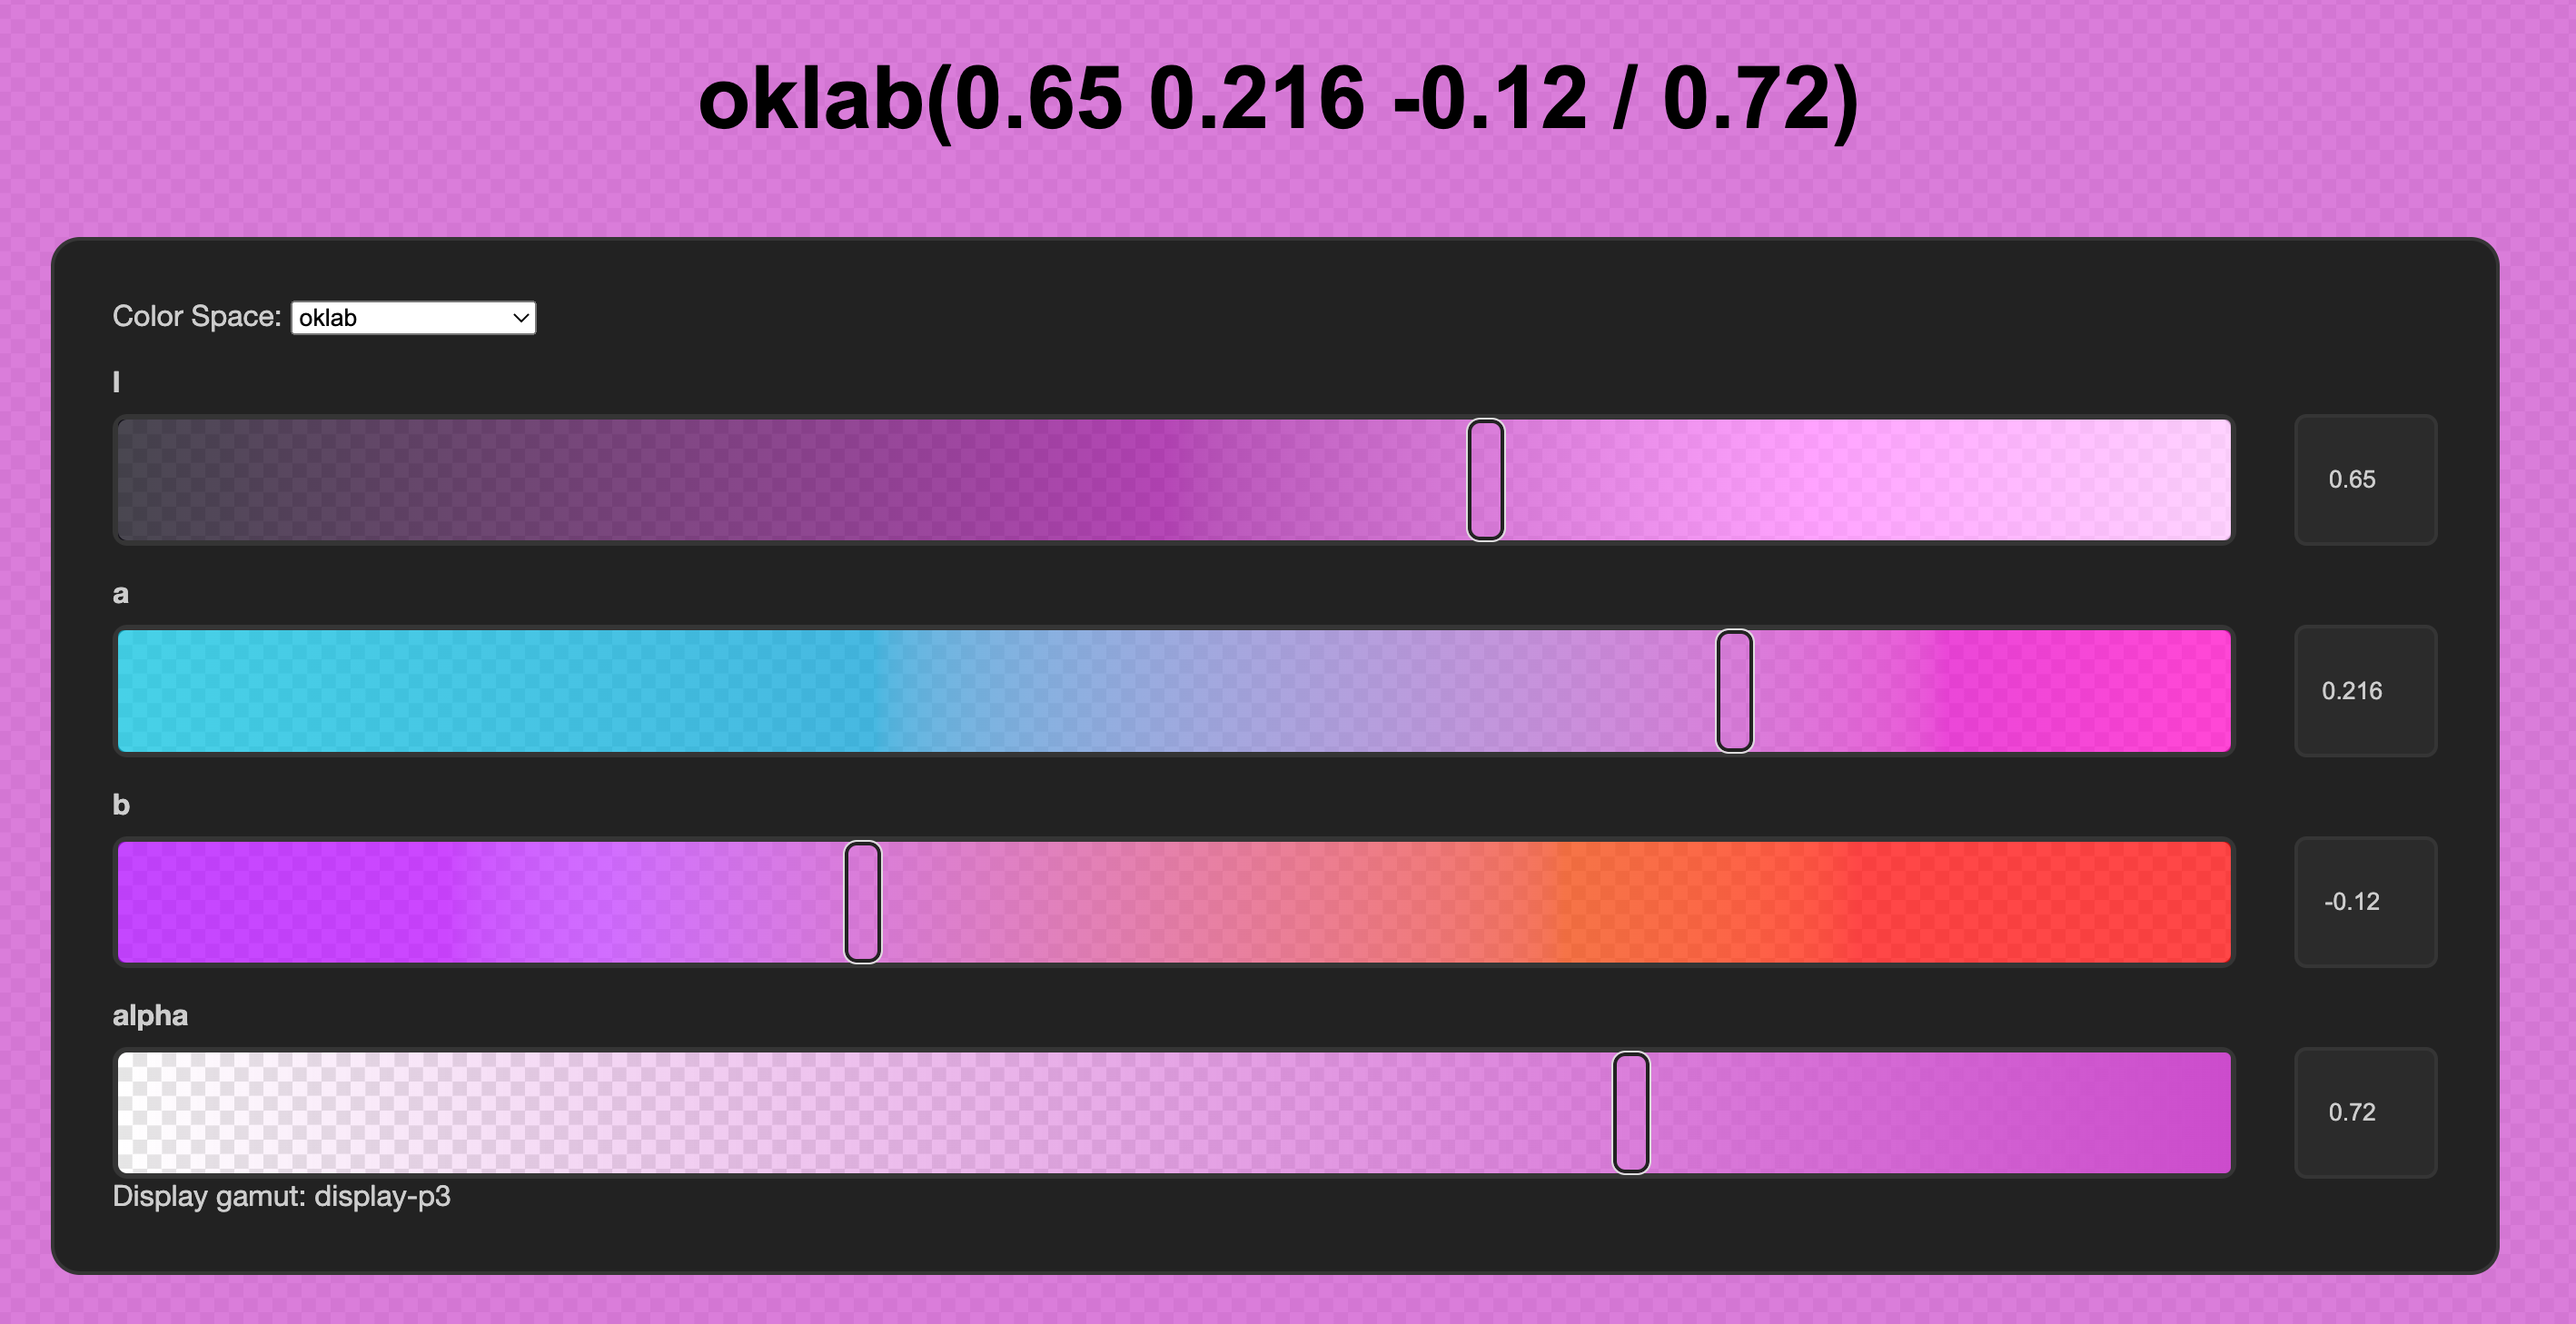
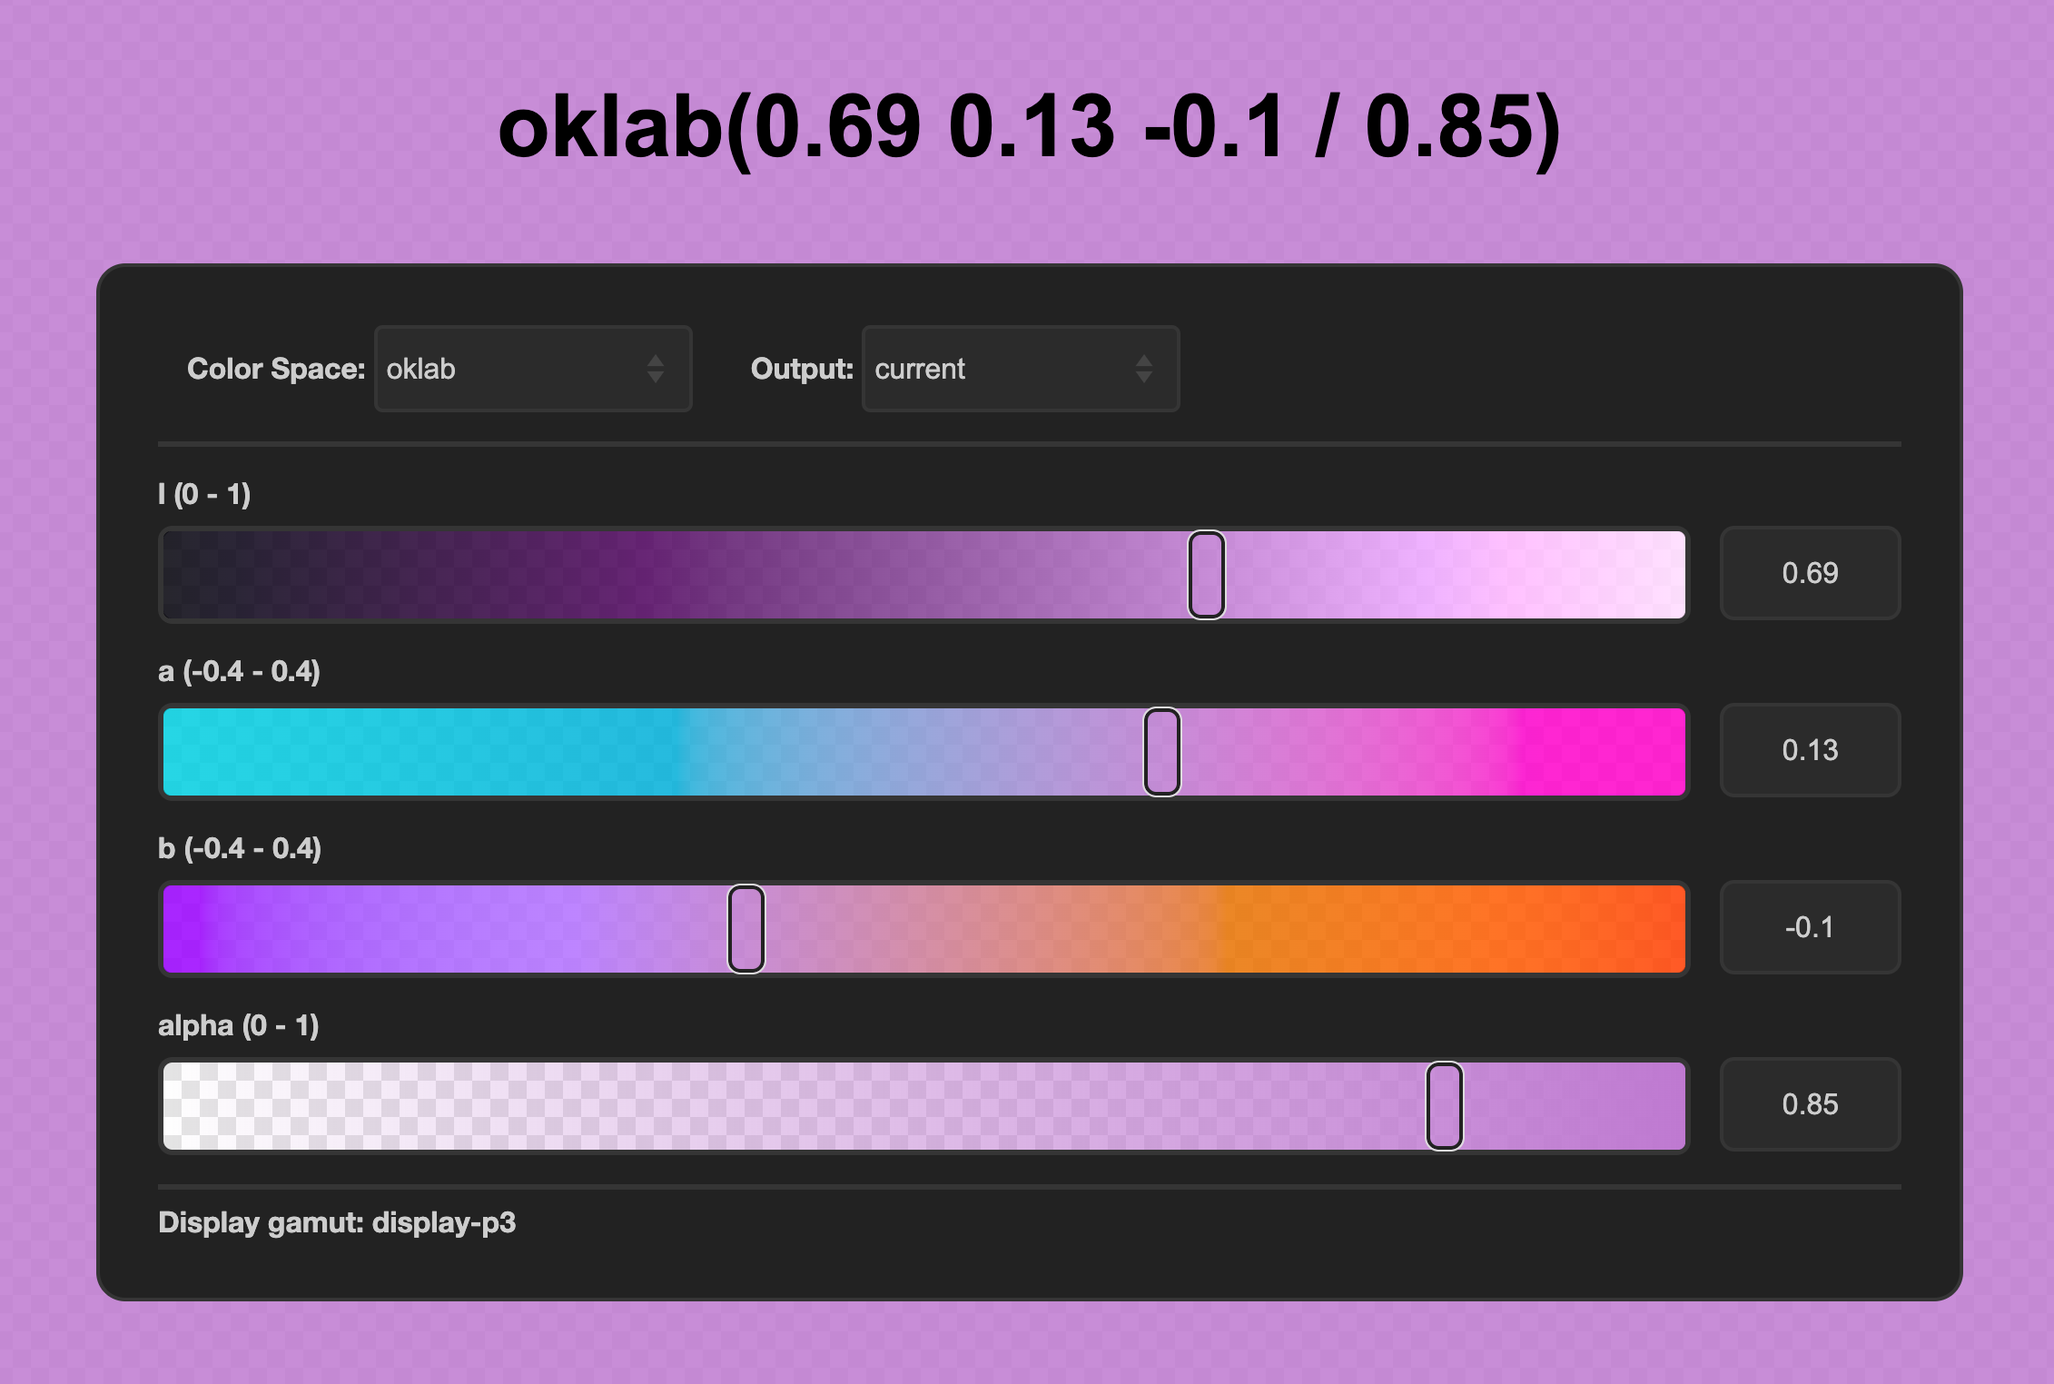
Colorpicker demo can now specify output color space to translate to

diff --git a/docs/src/markdown/demos/colorpicker.html b/docs/src/markdown/demos/colorpicker.html
@@ -80,6 +80,7 @@
         }
 
         #main {
+          font-weight: 800;
           display: flex;
           background-color: #222;
           border: 2px solid var(--border);
@@ -133,7 +134,7 @@
           background-color: var(--input);
           border-radius: 0.3em;
           border: 2px solid var(--border);
-          font-size: 13px;
+          font-size: 1em;
           text-overflow: ellipsis;
         }
 
@@ -184,7 +185,7 @@
           border: 2px solid var(--border);
           background-color: var(--input);
           border-radius: 0.5em;
-          font-size: 13px;
+          font-size: 1em;
         }
 
         /* Chrome, Safari, Edge, Opera */
@@ -200,8 +201,18 @@
           -moz-appearance: textfield;
         }
 
+        #color-space {
+          display: flex;
+          flex-flow: wrap;
+          border-bottom: 3px solid var(--border);
+        }
+
+        #color-space span {
+          margin: 0 1em 1em 1em;
+          white-space: nowrap;
+        }
+
         .slider-label {
-          font-weight: 800;
           display: inline-block;
           margin: 1em 0 0.5em 0;
         }
@@ -299,16 +310,24 @@
       <header>
         <h1>ColorAide Color Picker</h1>
       </header>
-      <div id="color-input">
-        <label class='hidden'>Color Value</label><input id="color-label" type="text" value="" spellcheck="false">
+      <div id="color-result">
+        <label class='hidden'>Color Value</label>
+        <input id="color-label" type="text" value="" spellcheck="false">
       </div>
       <div id="main">
         <div id="dialog">
           <div id="color-space">
-            <label class="hidden" for="spaces">Color Space:</label>
+            <span>
+            <label for="spaces">Color Space:</label>
             <select name="spaces" id="spaces">
             </select>
-            <span class='hidden' id='warn1'>(Out of color space gamut!)</span>
+            </span>
+            <span>
+            <label for="output">Output:</label>
+            <select name="output" id="output">
+            <option value='current' selected>current</option>
+            </select>
+            </span>
           </div>
           <div id="sliders">
             <div class="slider-wrapper">
@@ -373,7 +392,7 @@
             </div>
           </div>
           <div id="environment-info">
-          Display gamut: <span id='gamut'></span> <span class='hidden' id='warn2'>(Out of display gamut!)</span>
+          Display gamut: <span id='gamut'></span><br><span class='hidden' id='warn1'></span>
           </div>
         </div>
       </div>
@@ -447,6 +466,8 @@
         const numericalInput = kwargs.numericalInput
         const spaceChange = kwargs.spaceChange
         const fallback = kwargs.fallback
+        let output = document.getElementById('output').value
+        let working = document.getElementById('spaces').value
 
         if (!textInput) {
           // Get color from slider or numerical inputs
@@ -457,7 +478,7 @@
 
           c = coloraide.ColorAll(space, values.slice(0, -1), values[values.length - 1])
         } else {
-          // Get color from text input
+          // Get color from result
           try {
             c = coloraide.ColorAll(textInput)
           } catch (error) {
@@ -468,27 +489,55 @@
             return
           }
           cs = c.space()
-          document.getElementById('spaces').value = cs
+          if (output === 'current') {
+            document.getElementById('spaces').value = cs
+            working = cs
+            output = cs
+          } else {
+            document.getElementById('output').value = cs
+            output = cs
+          }
         }
+
+        // Output color value
+        space = c.space()
+        let colorStr = ''
+        if (output !== 'current' && output !== space) {
+          const c2 = c.convert(output)
+          colorStr = c2.to_string.callKwargs({'fit': false})
+          c2.destroy()
+        } else {
+          colorStr = c.to_string.callKwargs({'fit': false})
+        }
+        document.getElementById('color-label').value = colorStr
+        const uri = encodeuri(colorStr)
+        const uri2 = encodeuri(output)
+        history.pushState({color: uri}, "", `?${new URLSearchParams(`color=${uri}&out=${uri2}`).toString()}`)
 
         // Convert to color space if needed
-        if (spaceChange) {
-          c.convert.callKwargs(spaceChange, {'in_place': true, 'norm': false})
-          space = spaceChange
+        if (space !== working) {
+          c.convert.callKwargs(working, {'in_place': true, 'norm': false})
+          space = working
         }
 
-        // Add gamut warning if out of display gamut
+        // Add gamut warnings if out of display, input, or output gamut
+        let outOfGamut = ''
         if (!c.in_gamut(webspace)) {
-          document.getElementById('warn2').classList.remove('hidden')
-        } else {
-          document.getElementById('warn2').classList.add('hidden')
+          outOfGamut = 'display'
         }
-
-        // Add gamut warning if out of color space gamut
-        if (!c.in_gamut()) {
-          document.getElementById('warn1').classList.remove('hidden')
+        if (!c.in_gamut(working)) {
+          outOfGamut = (outOfGamut) ? outOfGamut.concat(' + input') : 'input'
+        }
+        if (!c.in_gamut(output)) {
+          outOfGamut = (outOfGamut) ? outOfGamut.concat(' + output') : 'output'
+        }
+        const og = document.getElementById('warn1')
+        if (outOfGamut) {
+          og.classList.remove('hidden')
+          og.innerHTML = `Out of gamut: ${outOfGamut}`
         } else {
-          document.getElementById('warn1').classList.add('hidden')
+          og.classList.add('hidden')
+          og.innerHTML = ''
         }
 
         // Display color as background
@@ -504,12 +553,6 @@
         }
 
         // Hide show channels as needed to accomodate color space
-        space = c.space()
-        const colorStr = c.to_string.callKwargs({'fit': false})
-        document.getElementById('color-label').value = colorStr
-        const uri = encodeuri(colorStr)
-        history.pushState({color: uri}, "", `?${new URLSearchParams(`color=${uri}`).toString()}`)
-
         const entry = colorSpaces.get(space)
         if (entry.get('count') === 5) {
           const s4 = document.getElementById('slider4')
@@ -567,6 +610,7 @@ for e, i in enumerate(Color.steps([cmin, c], steps=21, space='${space}', out_spa
         document.getElementById('gamut').innerHTML = webspace
         const params = new URLSearchParams(window.location.search)
         const initialColor = (params.has('color')) ? params.get('color') : initial
+        const initialOutput = (params.has('out')) ? params.get('out') : 'current'
 
         // Setup Pyodide
         busyTarget = document.getElementById('color-display')
@@ -610,15 +654,31 @@ space_info
 `)
         colorSpaces = result.toJs()
         result.destroy()
+        let outSet = false;
         const options = document.getElementById('spaces')
+        const options2 = document.getElementById('output')
+        const defaultOutput = document.createElement('option')
+        defaultOutput.innerHTML = 'current'
+        defaultOutput.setAttribute('value', 'current')
         for (let key of colorSpaces.keys()) {
-          const opt = document.createElement('option')
-          opt.innerHTML = key
-          opt.setAttribute('value', key)
+          const opt1 = document.createElement('option')
+          const opt2 = document.createElement('option')
+          opt1.innerHTML = key
+          opt1.setAttribute('value', key)
           if (key === 'srgb') {
-            opt.setAttribute('selected', 'selected')
+            opt1.setAttribute('selected', 'selected')
           }
-          options.append(opt)
+          if (key === initialOutput) {
+            opt2.setAttribute('selected', 'selected')
+            outSet = true
+          }
+          opt2.innerHTML = key
+          opt2.setAttribute('value', key)
+          options.append(opt1)
+          options2.append(opt2)
+        }
+        if (!outSet) {
+          defaultOutput.setAttribute('selected', 'selected')
         }
 
         // Update the color
@@ -632,6 +692,9 @@ space_info
           text.addEventListener('change', async e => {updateColor({numericalInput: true})})
         }
         options.addEventListener('change', async e => {
+          updateColor({spaceChange: options.value})
+        })
+        options2.addEventListener('change', async e => {
           updateColor({spaceChange: options.value})
         })
         const textInput = document.getElementById('color-label')
